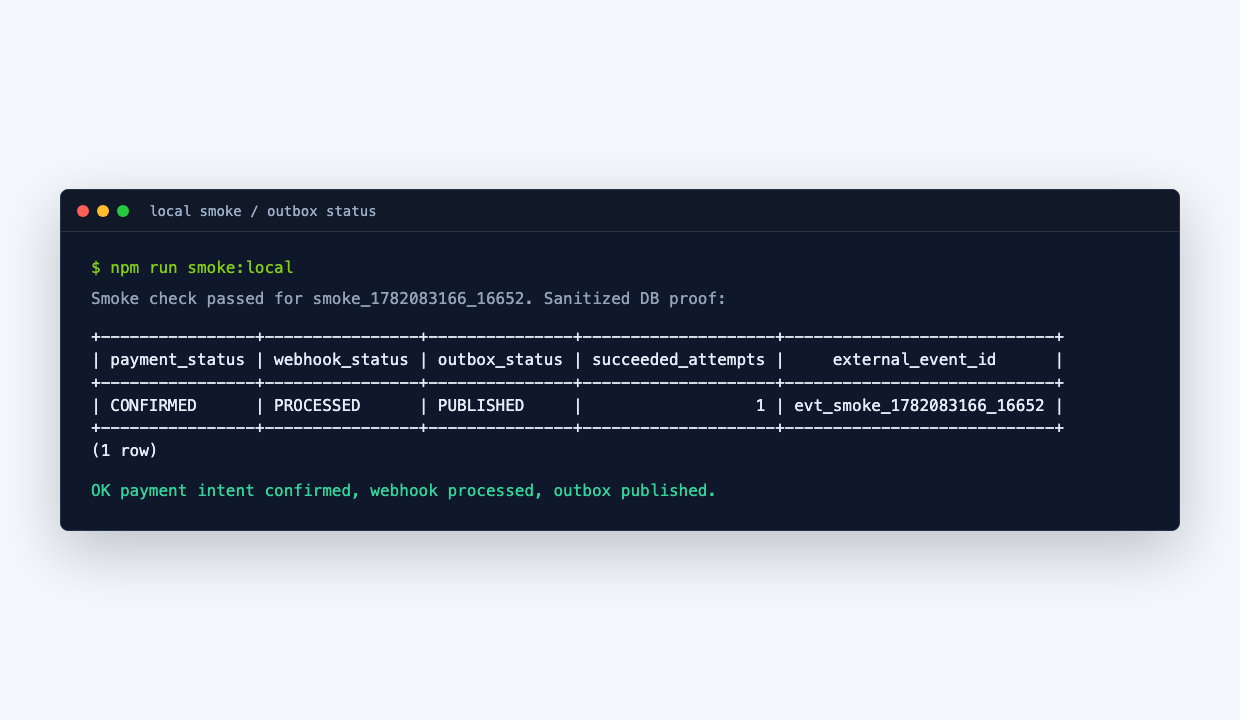
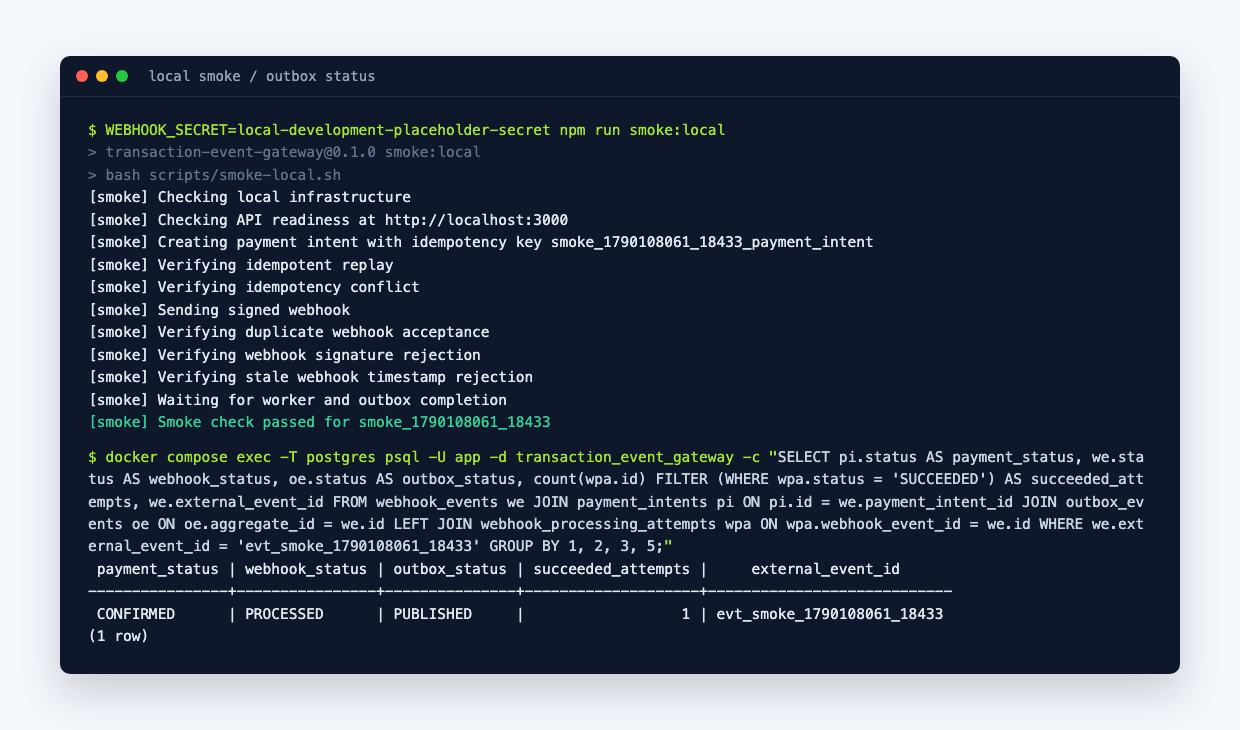
Refresh README screenshots and fix the local setup steps
- Recapture the Swagger UI screenshot from the running API, including
  /health/serving
- Rebuild the smoke screenshot from real smoke:local output and a database
  query, and describe it accurately
- Add the cp .env.example .env step to the local run
- Move migration:revert out of the run/show block so copying the block no
  longer rolls back the latest migration

diff --git a/README.md b/README.md
@@ -86,7 +86,7 @@ The readiness capture shows the API process validating configuration, PostgreSQL
 
 ![Readiness endpoint](docs/assets/health-ready.png)
 
-The smoke capture shows a local webhook reaching processed webhook and published outbox state.
+The smoke capture shows real `smoke:local` output against the Docker Compose stack, followed by a database query confirming that the payment intent, webhook event, and outbox row reached `CONFIRMED`, `PROCESSED`, and `PUBLISHED`.
 
 ![Smoke outbox proof](docs/assets/smoke-outbox.png)
 
@@ -196,17 +196,28 @@ Install dependencies:
 npm install
 ```
 
+Create the local environment file; the API, worker, and migration commands read `.env` (variables set in the shell take precedence):
+
+```bash
+cp .env.example .env
+```
+
 Start local infrastructure:
 
 ```bash
 docker compose up -d postgres redis
 ```
 
-Run migrations:
+Run migrations and show their status:
 
 ```bash
 DATABASE_URL=postgres://app:app@localhost:5432/transaction_event_gateway npm run migration:run
 DATABASE_URL=postgres://app:app@localhost:5432/transaction_event_gateway npm run migration:show
+```
+
+Roll back the most recent migration only when you intend to undo it; the API and worker need the full schema, so run `migration:run` again before starting them:
+
+```bash
 DATABASE_URL=postgres://app:app@localhost:5432/transaction_event_gateway npm run migration:revert
 ```
 
